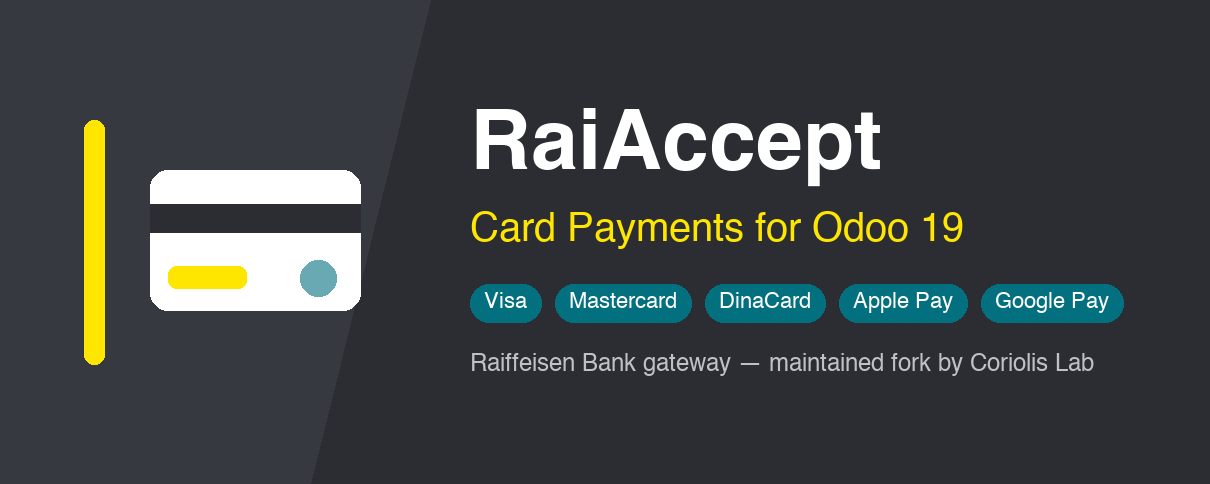
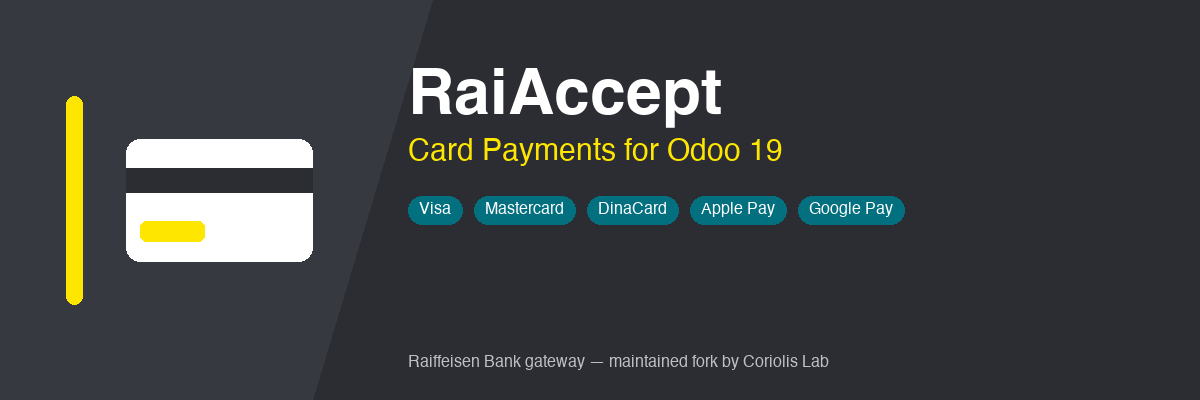
docs: store artwork at the standard sizes of the other listings
2:1 cover (1200x600) listed first in the manifest for the Apps grid,
1200x400 banner, 256px icon from the gateway's own product mark;
method chips fitted inside the canvas.

diff --git a/payment_raiaccept/__manifest__.py b/payment_raiaccept/__manifest__.py
@@ -10,7 +10,12 @@
     "license": "LGPL-3",
     "price": 0,
     "currency": "EUR",
-    "images": ["static/description/banner.png"],
+    # First entry is the store cover: the Apps grid renders it in a
+    # strict 2:1 box with background-size: cover.
+    "images": [
+        "static/description/cover.png",
+        "static/description/banner.png",
+    ],
     "depends": [
         "payment",
     ],
